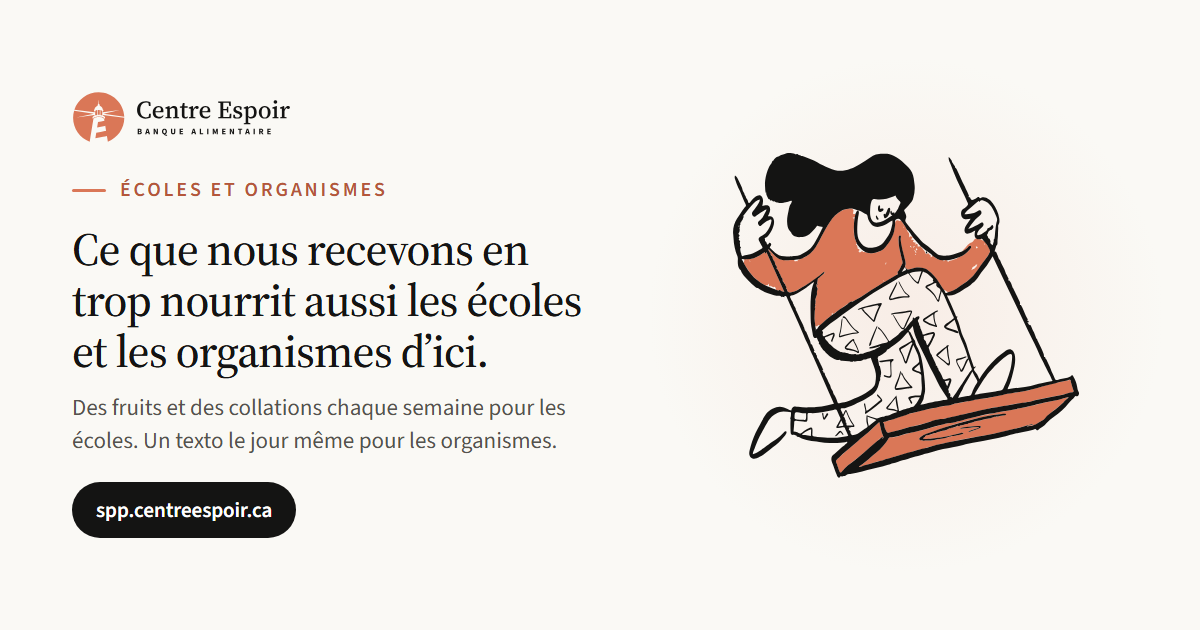
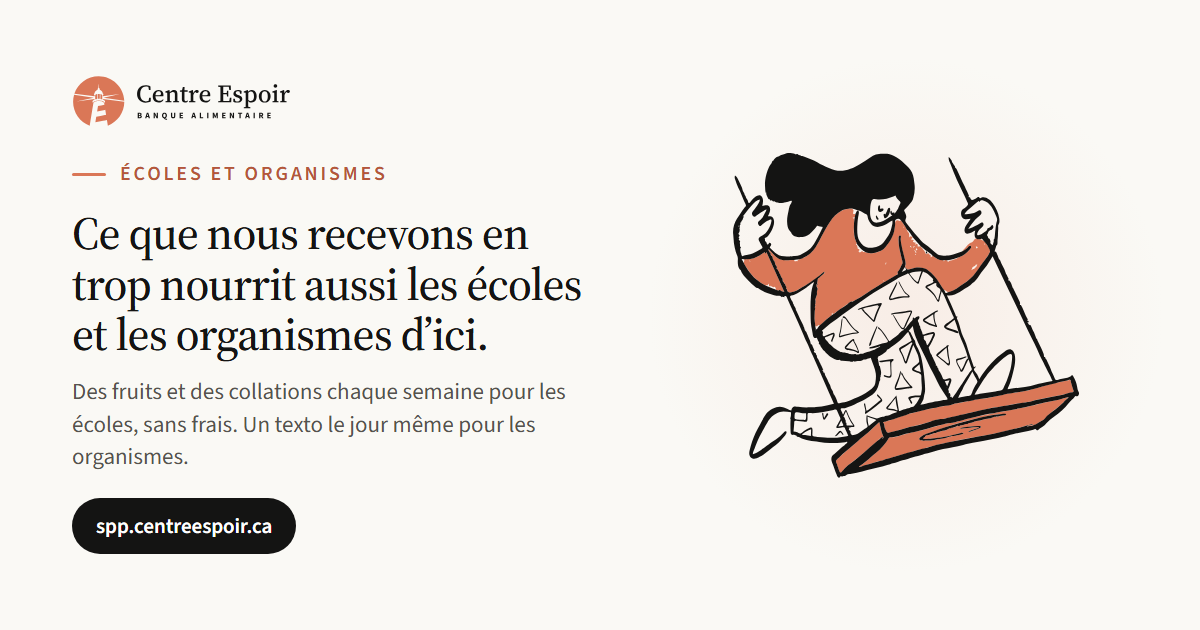
Le programme des écoles est gratuit, et le bouton n'ouvre qu'un courriel
Décisions de David : pas de formulaire, un courriel dont l'objet est
« J'aimerais inscrire mon école », et rien d'autre. Le service est sans frais
pour l'école, ce que la page dit maintenant. Aucune école n'est nommée.

Changed region(s): [[0.0617, 0.3317, 0.4933, 0.9048], [0.0617, 0.1206, 0.2467, 0.2413], [0.0617, 0.2413, 0.3392, 0.3317]]

diff --git a/src/pages/initiatives.html b/src/pages/initiatives.html
@@ -32,6 +32,7 @@ og_alt: Ce que nous recevons en trop nourrit aussi les écoles et les organismes
             <li><strong>Une visite par semaine.</strong> L’école passe au Centre et repart avec ce qu’il y a.</li>
             <li><strong>Des fruits, des légumes et des collations</strong>, selon ce que nous avons reçu.</li>
             <li><strong>Remis par l’école</strong> aux enfants qui en ont besoin, et à ceux qui n’ont pas de lunch.</li>
+            <li><strong>Sans frais.</strong> Le service est gratuit pour l’école.</li>
           </ul>
           <p class="reveal" style="margin-top: 1.6em;">Votre école n’y participe pas encore? Il suffit de nous écrire. On convient ensemble d’un jour de passage.</p>
         </div>
@@ -39,7 +40,7 @@ og_alt: Ce que nous recevons en trop nourrit aussi les écoles et les organismes
         <aside>
           <div class="panel sticky reveal d1">
             <h3>Inscrire mon école</h3>
-            <p class="muted">Un courriel suffit. Dites‑nous le nom de l’école et qui joindre; nous vous rappelons.</p>
+            <p class="muted">Un courriel suffit. Dites‑nous le nom de l’école et qui joindre; nous vous rappelons. C’est gratuit.</p>
             <a class="btn btn-primary btn-lg" href="{{ url.ecoles }}">Inscrire mon école</a>
             <hr>
             <ul class="panel-list">

diff --git a/.claude/skills/site-centreespoir/SKILL.md b/.claude/skills/site-centreespoir/SKILL.md
@@ -18,11 +18,13 @@ own call to action:
 
 - **Elementary schools** come once a week for the surplus fruit, vegetables and
   snacks, and hand them to children from struggling families and to those who
-  arrive without a lunch. There is no form yet, so *Inscrire mon école* opens a
-  prepared e-mail to info@centreespoir.ca (`url.ecoles` in `build/build.mjs`,
-  built with `encodeURIComponent`, never with `
-` escapes typed through a
-  heredoc, which arrive as real line breaks). David may want a real form later.
+  arrive without a lunch. **Free for the school**, and David does not want the
+  participating schools named. **No form, by his decision**: *Inscrire mon
+  école* opens an e-mail to info@centreespoir.ca with the subject he chose,
+  « J'aimerais inscrire mon école » (`url.ecoles` in `build/build.mjs`, built
+  with `encodeURIComponent`; never type `
+` escapes through a heredoc, they
+  arrive as real line breaks).
 - **The surplus network for organisations**, the Système de Prévention de
   Pertes at spp.centreespoir.ca (the *wps* codebase, `BRAND=spp`). *Demander
   l'accès* goes to `/demande`, its join-request form; *Voir la présentation*
